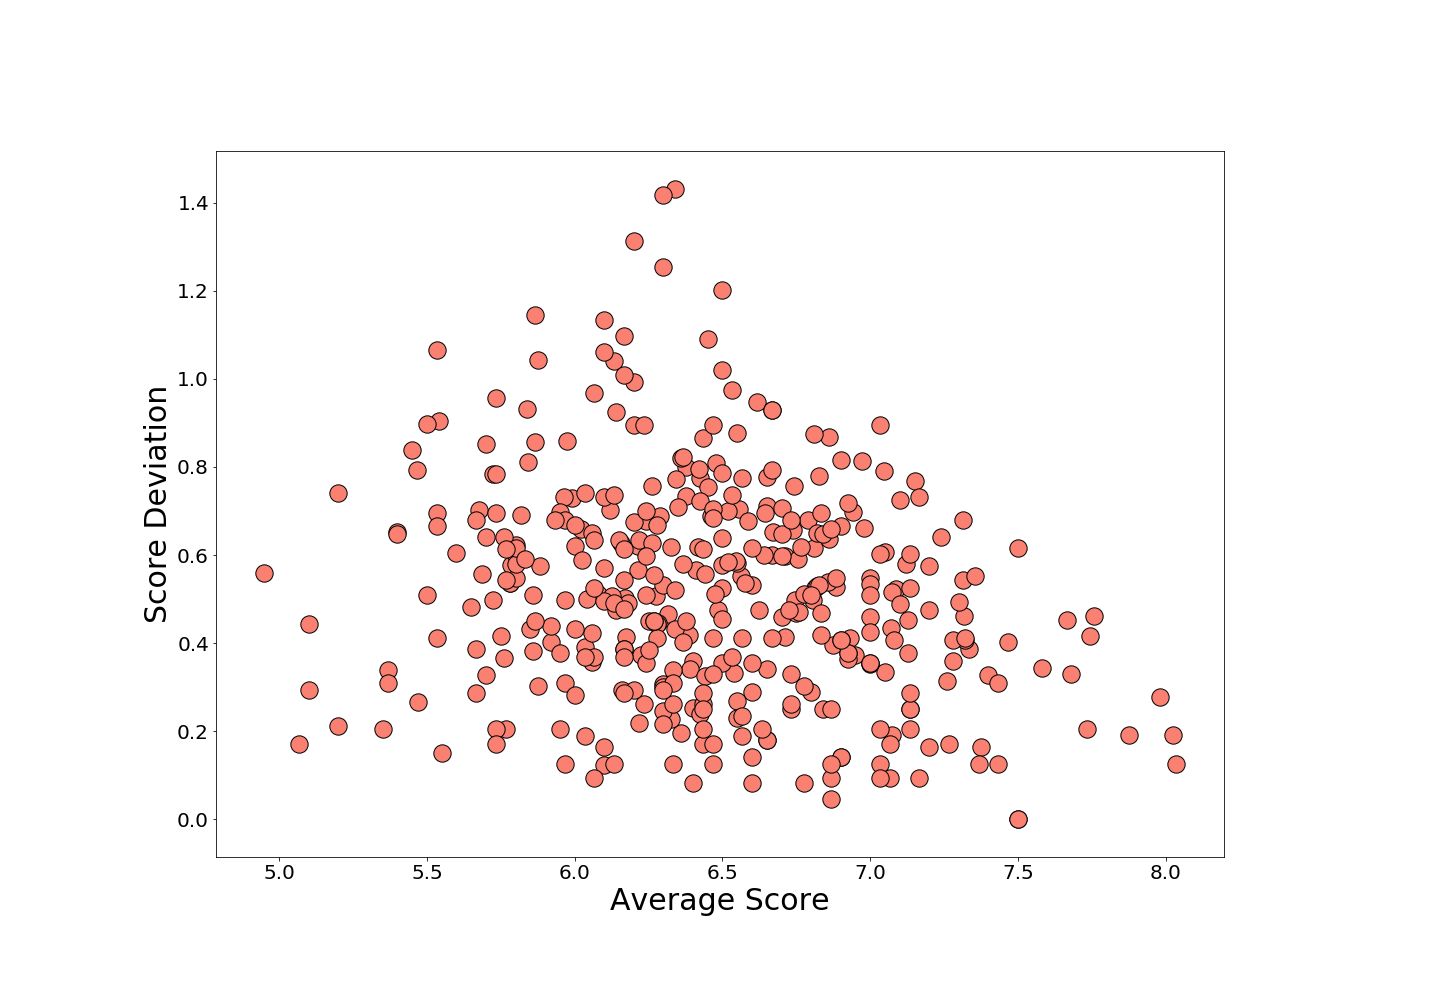
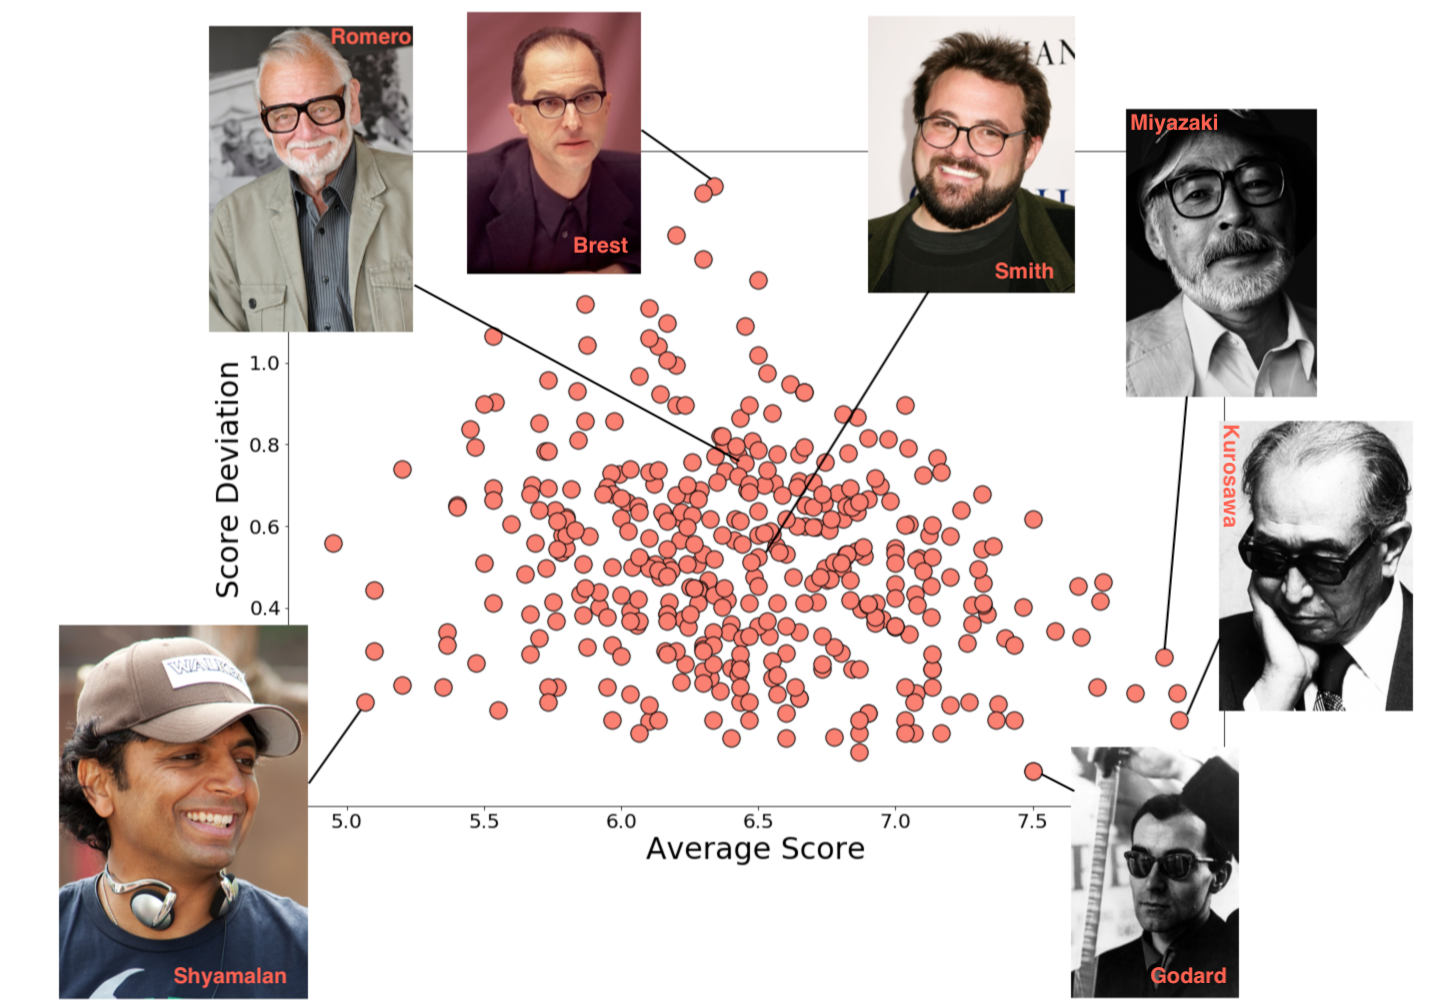
new figs

diff --git a/pages/post3.md b/pages/post3.md
@@ -38,7 +38,11 @@ So, let's go ahead and look at the average and deviations of film ratings for di
 
 ![director scores](../assets/post3/directors.png)
 
-The actors and writers have similar di
+Now, I wasn't going to point out the lowest average rating directors, but the second lowest average was M. Night Shyamalan and that seems completely unfair to me. Say what you will, "Unbreakable" (2000) was a masterpiece.
+
+The actors and writers have similar distributions sort of flaring out from a point at high-ratings, low variability.
+
+![director scores](../assets/post3/directors.png)
 
 
 
